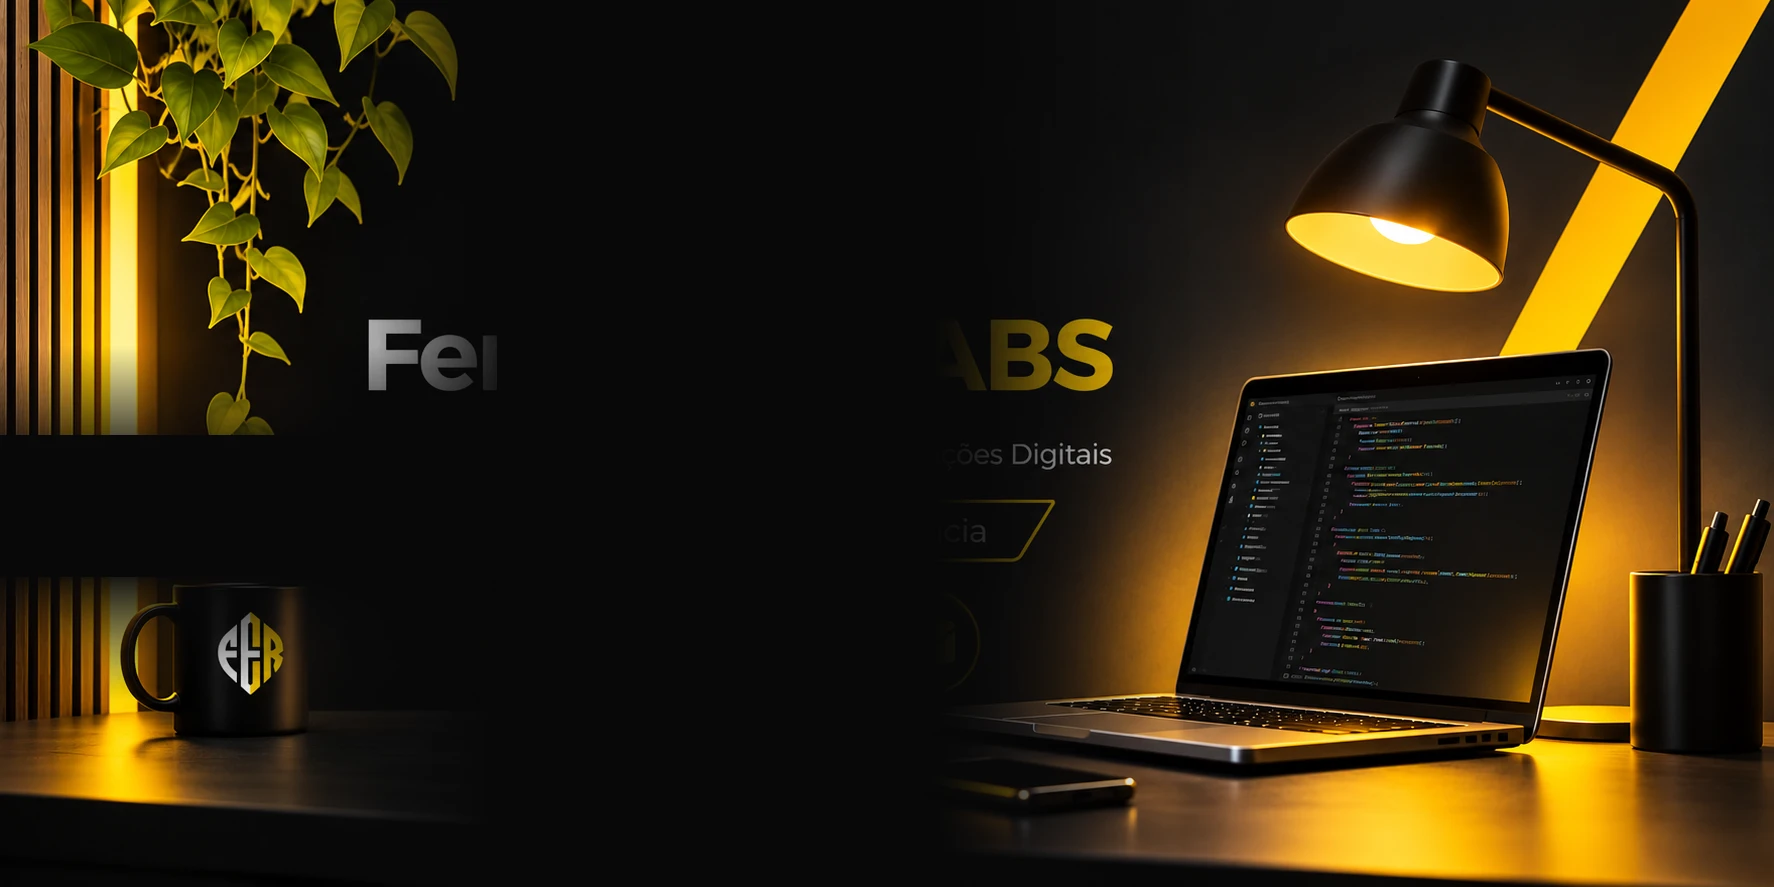
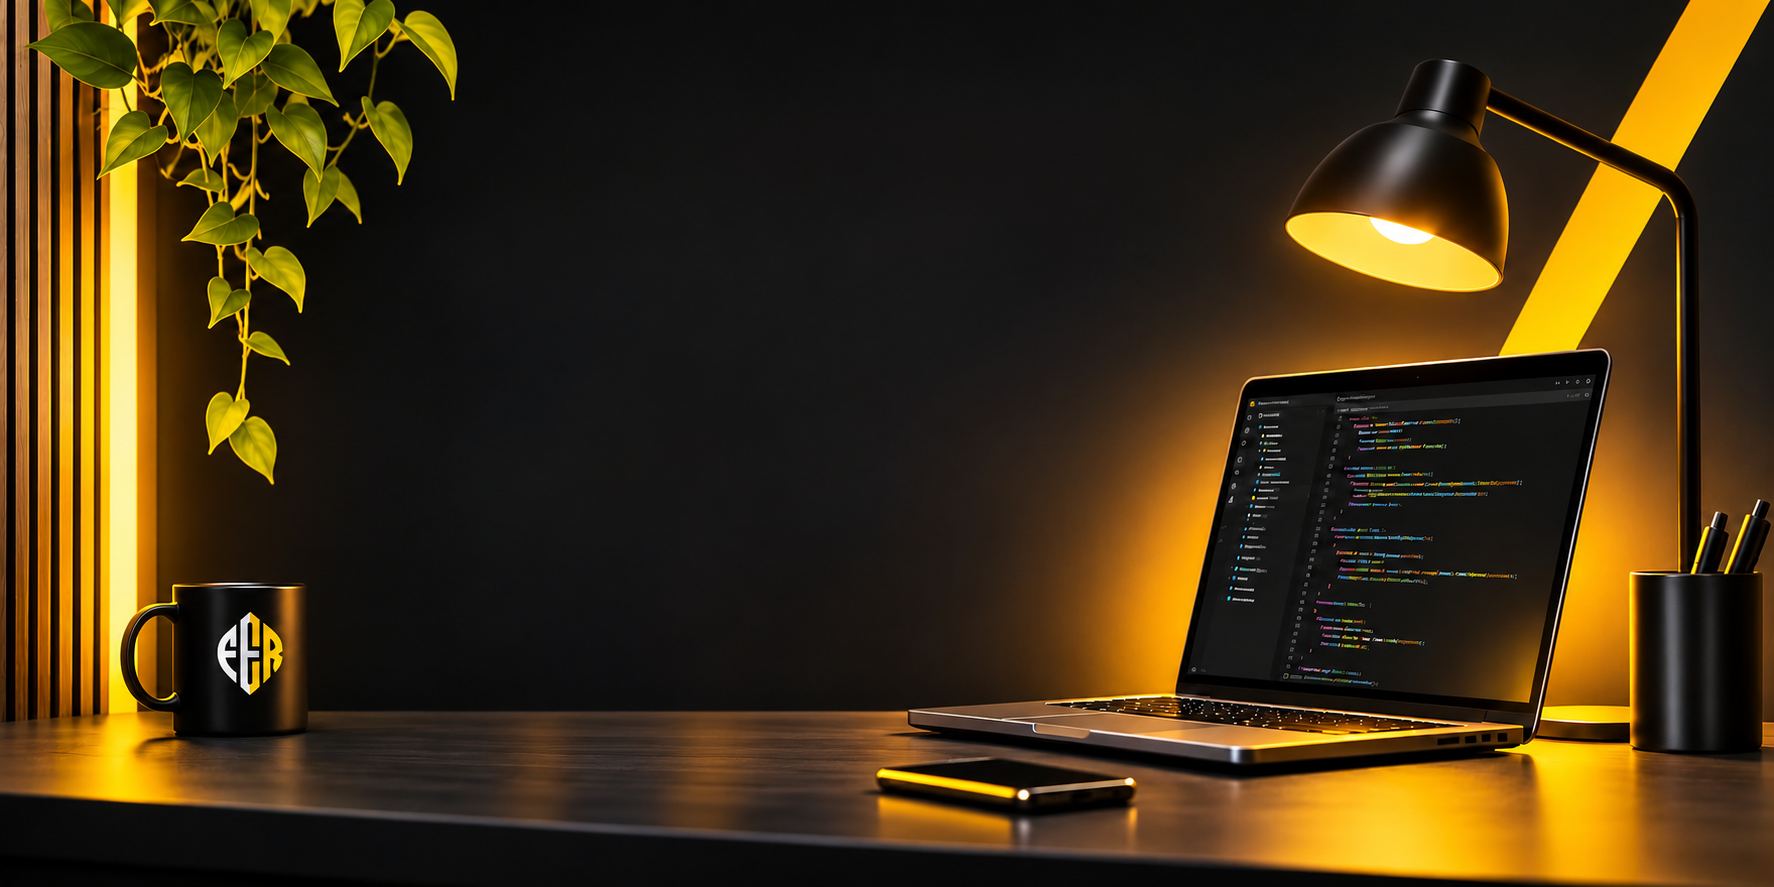
vai

diff --git a/assets/style.css b/assets/style.css
@@ -1,1 +1,1 @@
-*{box-sizing:border-box}html{min-height:100%;background:#080809}body{margin:0;color:#fff;font-family:Arial,Helvetica,sans-serif}a{color:inherit}.home{position:relative;isolation:isolate;min-height:100svh;display:flex;align-items:center;justify-content:center;overflow:hidden;padding:42px 24px 28px;background:#080809}.scene{position:absolute;z-index:-1;inset:0;background-image:url(workspace.png);background-size:cover;background-position:center center}.scene:after{content:"";position:absolute;inset:0;background:linear-gradient(90deg,rgba(0,0,0,.12),transparent 62%),linear-gradient(0deg,rgba(0,0,0,.23),transparent 22%)}.content{width:min(710px,100%);margin-left:clamp(-310px,-18vw,-60px);text-align:center}.brand-symbol{display:block;width:95px;height:115px;object-fit:contain;margin:0 auto 6px}.brand h1{margin:0;font-size:clamp(44px,4.2vw,72px);font-weight:800;line-height:1.1;letter-spacing:-2.5px;white-space:nowrap}.brand h1 span{color:#ffcc00}.underline{width:105px;height:3px;background:#ffcc00;margin:18px auto 21px}.brand p{font-size:clamp(15px,1.5vw,22px);margin:0;white-space:nowrap}.brand p b{color:#ffcc00;margin:0 7px}.experience{display:inline-block;position:relative;margin:28px auto 27px;padding:10px 37px;border:2px solid #ffcc00;transform:skewX(-12deg);font-size:clamp(17px,1.9vw,27px);white-space:nowrap}.experience strong{color:#ffcc00}.experience>*{transform:skewX(12deg)}.project{display:flex;align-items:center;gap:24px;margin:0 auto 27px;max-width:660px;text-align:left;padding:10px 0}.project-logo{flex:0 0 205px;display:flex;align-items:center;justify-content:center;border-right:1px solid #858585;padding-right:20px}.project-logo img{width:100%;max-height:135px;object-fit:contain;background:#fff;border-radius:8px}.project-copy{flex:1;min-width:0}.eyebrow{font-size:12px;font-weight:700;letter-spacing:3px;color:#ffcc00}.project h2{font-size:25px;margin:7px 0}.project p{font-size:15px;line-height:1.5;margin:0 0 13px;color:#eee}.project-link{display:inline-flex;align-items:center;gap:12px;background:#ffcc00;color:#080808;text-decoration:none;font-weight:800;font-size:14px;border-radius:10px;padding:13px 17px;transition:transform .2s,background .2s}.project-link:hover{transform:translateY(-2px);background:#ffe166}.social{display:flex;align-items:center;justify-content:center;gap:21px;margin:5px auto 22px}.social a{display:grid;place-items:center;width:65px;height:65px;border:2px solid #ffcc00;border-radius:50%;color:#ffcc00;box-shadow:0 0 16px #ffcc004d;transition:transform .2s,background .2s}.social a:hover{transform:translateY(-3px);background:#ffcc001c}.social svg{width:30px;height:30px}.divider{height:29px;width:1px;background:#777}footer{font-size:12px;color:#bbb}@media(max-width:1100px){.content{margin-left:-14vw;width:min(650px,100%)}.scene{background-position:57% center}}@media(max-width:760px){.home{padding:35px 20px;min-height:100svh;align-items:center}.scene{background-position:65% center;opacity:.55}.scene:after{background:rgba(0,0,0,.58)}.content{margin-left:0}.brand-symbol{width:72px;height:90px}.brand h1{font-size:clamp(35px,8vw,55px);letter-spacing:-1.5px}.brand p{font-size:14px;white-space:normal;line-height:1.7}.experience{margin:23px auto 17px;padding:10px 15px;font-size:17px}.project{flex-direction:column;gap:12px;text-align:center;padding:10px 0}.project-logo{border-right:0;padding:0;flex:auto;width:155px}.project-logo img{max-height:105px}.project h2{font-size:22px}.project p{font-size:14px}.social a{width:55px;height:55px}.social svg{width:26px;height:26px}}@media(max-width:370px){.brand h1{font-size:33px}.brand p b{margin:0 2px}.experience{font-size:15px}.project-link{font-size:13px}}
+*{box-sizing:border-box}html{min-height:100%;background:#080809}body{margin:0;color:#fff;font-family:Arial,Helvetica,sans-serif}a{color:inherit}.home{position:relative;isolation:isolate;min-height:100svh;display:flex;align-items:center;justify-content:center;overflow:hidden;padding:42px 24px 28px;background:#080809}.scene{position:absolute;z-index:-1;inset:0;background-image:url(workspace.webp);background-size:cover;background-position:center center}.scene:after{content:"";position:absolute;inset:0;background:linear-gradient(90deg,rgba(0,0,0,.12),transparent 62%),linear-gradient(0deg,rgba(0,0,0,.23),transparent 22%)}.content{width:min(710px,100%);margin-left:clamp(-310px,-18vw,-60px);text-align:center}.brand-symbol{display:block;width:95px;height:115px;object-fit:contain;margin:0 auto 6px}.brand h1{margin:0;font-size:clamp(44px,4.2vw,72px);font-weight:800;line-height:1.1;letter-spacing:-2.5px;white-space:nowrap}.brand h1 span{color:#ffcc00}.underline{width:105px;height:3px;background:#ffcc00;margin:18px auto 21px}.brand p{font-size:clamp(15px,1.5vw,22px);margin:0;white-space:nowrap}.brand p b{color:#ffcc00;margin:0 7px}.experience{display:inline-block;position:relative;margin:28px auto 27px;padding:10px 37px;border:2px solid #ffcc00;transform:skewX(-12deg);font-size:clamp(17px,1.9vw,27px);white-space:nowrap}.experience strong{color:#ffcc00}.experience>*{transform:skewX(12deg)}.project{display:flex;align-items:center;gap:24px;margin:0 auto 27px;max-width:660px;text-align:left;padding:10px 0}.project-logo{flex:0 0 205px;display:flex;align-items:center;justify-content:center;border-right:1px solid #858585;padding-right:20px}.project-logo img{width:100%;max-height:135px;object-fit:contain;background:#fff;border-radius:8px}.project-copy{flex:1;min-width:0}.eyebrow{font-size:12px;font-weight:700;letter-spacing:3px;color:#ffcc00}.project h2{font-size:25px;margin:7px 0}.project p{font-size:15px;line-height:1.5;margin:0 0 13px;color:#eee}.project-link{display:inline-flex;align-items:center;gap:12px;background:#ffcc00;color:#080808;text-decoration:none;font-weight:800;font-size:14px;border-radius:10px;padding:13px 17px;transition:transform .2s,background .2s}.project-link:hover{transform:translateY(-2px);background:#ffe166}.social{display:flex;align-items:center;justify-content:center;gap:21px;margin:5px auto 22px}.social a{display:grid;place-items:center;width:65px;height:65px;border:2px solid #ffcc00;border-radius:50%;color:#ffcc00;box-shadow:0 0 16px #ffcc004d;transition:transform .2s,background .2s}.social a:hover{transform:translateY(-3px);background:#ffcc001c}.social svg{width:30px;height:30px}.divider{height:29px;width:1px;background:#777}footer{font-size:12px;color:#bbb}@media(max-width:1100px){.content{margin-left:-14vw;width:min(650px,100%)}.scene{background-position:57% center}}@media(max-width:760px){.home{padding:35px 20px;min-height:100svh;align-items:center}.scene{background-position:65% center;opacity:.55}.scene:after{background:rgba(0,0,0,.58)}.content{margin-left:0}.brand-symbol{width:72px;height:90px}.brand h1{font-size:clamp(35px,8vw,55px);letter-spacing:-1.5px}.brand p{font-size:14px;white-space:normal;line-height:1.7}.experience{margin:23px auto 17px;padding:10px 15px;font-size:17px}.project{flex-direction:column;gap:12px;text-align:center;padding:10px 0}.project-logo{border-right:0;padding:0;flex:auto;width:155px}.project-logo img{max-height:105px}.project h2{font-size:22px}.project p{font-size:14px}.social a{width:55px;height:55px}.social svg{width:26px;height:26px}}@media(max-width:370px){.brand h1{font-size:33px}.brand p b{margin:0 2px}.experience{font-size:15px}.project-link{font-size:13px}}
